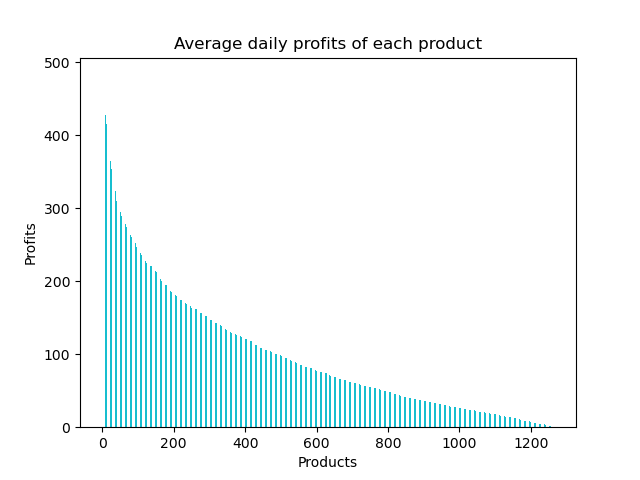
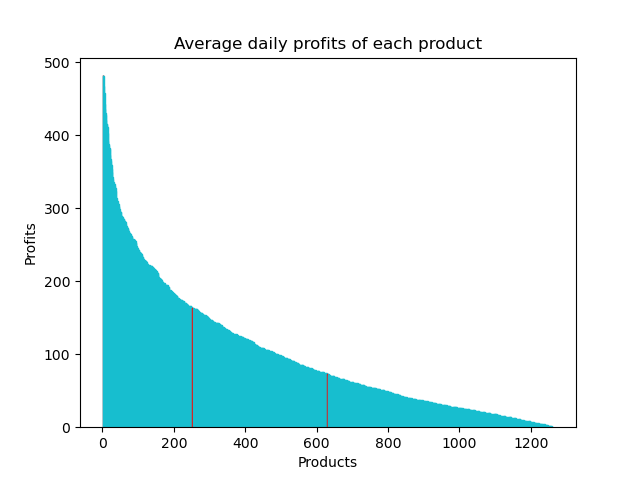
fix the border bug at 1.8

Changed region(s): [[0.1562, 0.1562, 0.875, 0.9375]]

diff --git a/final/belsimpel.py b/final/belsimpel.py
@@ -112,8 +112,6 @@ df_products["profit_margin"] = df_margins["margin"]
 df_products["product_volume_cm3"] = df_sizes["length"] * df_sizes["width"] * df_sizes["height"]
 df_products["average_daily_profit"] = df_products["average_daily_demand"] * df_products["profit_margin"]
 
-print(df_products)
-
 print("Plotting daily demand")
 
 df_error_bar = df_products[["product_id", "average_daily_demand", "std_average_daily_demand"]].sort_values(by="average_daily_demand", ascending=False)
@@ -203,16 +201,16 @@ boundary_avg_d_profits = [
 
 x = np.arange(1, len(df_products_sorted_on_profit_desc) + 1) 
 y = df_products_sorted_on_profit_desc["average_daily_profit"]
-cmap = ["#d62728" if avg in boundary_avg_d_profits else "#17becf" for avg in y]
+cmap = ["red" if avg in boundary_avg_d_profits else "#17becf" for avg in y]
 
-barlist = plt.bar(x, y, color=cmap, width=0.4)
+barlist = plt.bar(x, y, color=cmap, edgecolor=cmap, width=1.5)
 
 # for bp in boundary_products:
 #     #source: https://stackoverflow.com/questions/18973404/setting-different-bar-color-in-matplotlib-python
-#     barlist[bp].set_capstyle("round")
-#     barlist[bp].set_label("Product class boundaries")
-#     barlist[bp].set_color("red")
-#     barlist[bp].set_edgecolor("red")
+#     # barlist[bp].set_capstyle("round")
+#     # barlist[bp].set_label("Product class boundaries")
+#     # barlist[bp].set_color("red")
+#     # barlist[bp].set_edgecolor("red")
 #     barlist[bp].set_alpha(1) 
 
 plt.xlabel("Products")
@@ -283,12 +281,14 @@ print("Identify product couples with highly correlated demands")
 
 x = daily_demand_per_product[1:] # skip the first element because this is not filled
 rho = np.corrcoef(x)
-print(rho)
 cmap = sns.color_palette("coolwarm", as_cmap=True)
 sns.heatmap(rho, cmap=cmap)
 plt.title("Corr. matrix between the average daily demands of products")
 plt.savefig(os.path.join(sys.path[0], "plots", "corr_matrix_avg_daily_demand.png"))
 plt.close()
+
+flat = rho.flatten()
+print(flat)
 
 
 
